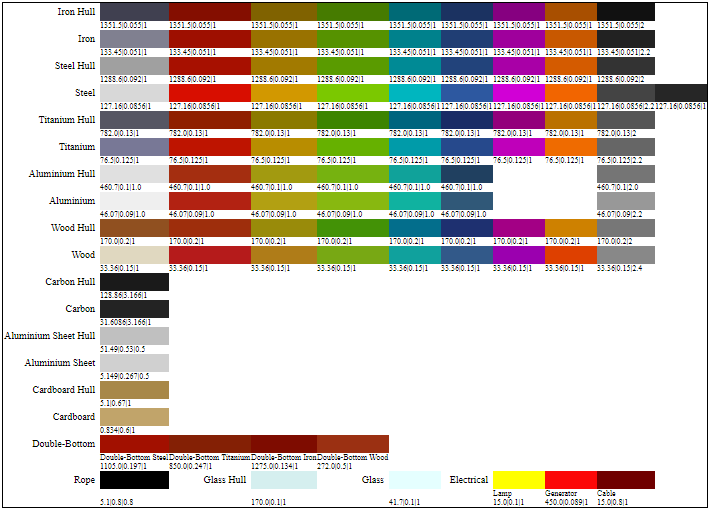
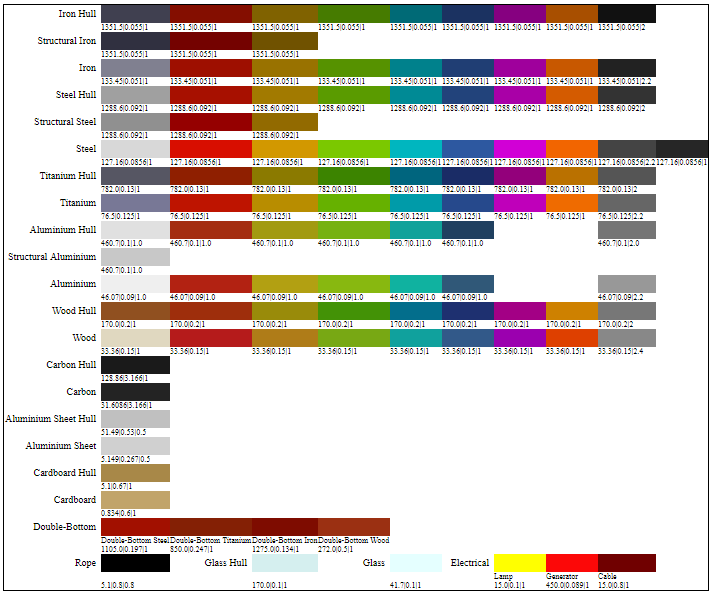
New Structural materials

diff --git a/Scripts/generate_materials_template.py b/Scripts/generate_materials_template.py
@@ -57,7 +57,9 @@ def main():
     html += "<table style='border: 1px solid black' cellpadding=0 cellspacing=0>"
 
     # Visit all rows
-    for k, input_col_values in d.iteritems():
+    for k in sorted(d.iterkeys()):
+
+        input_col_values = d[k]
 
         output_col_values = []
 
